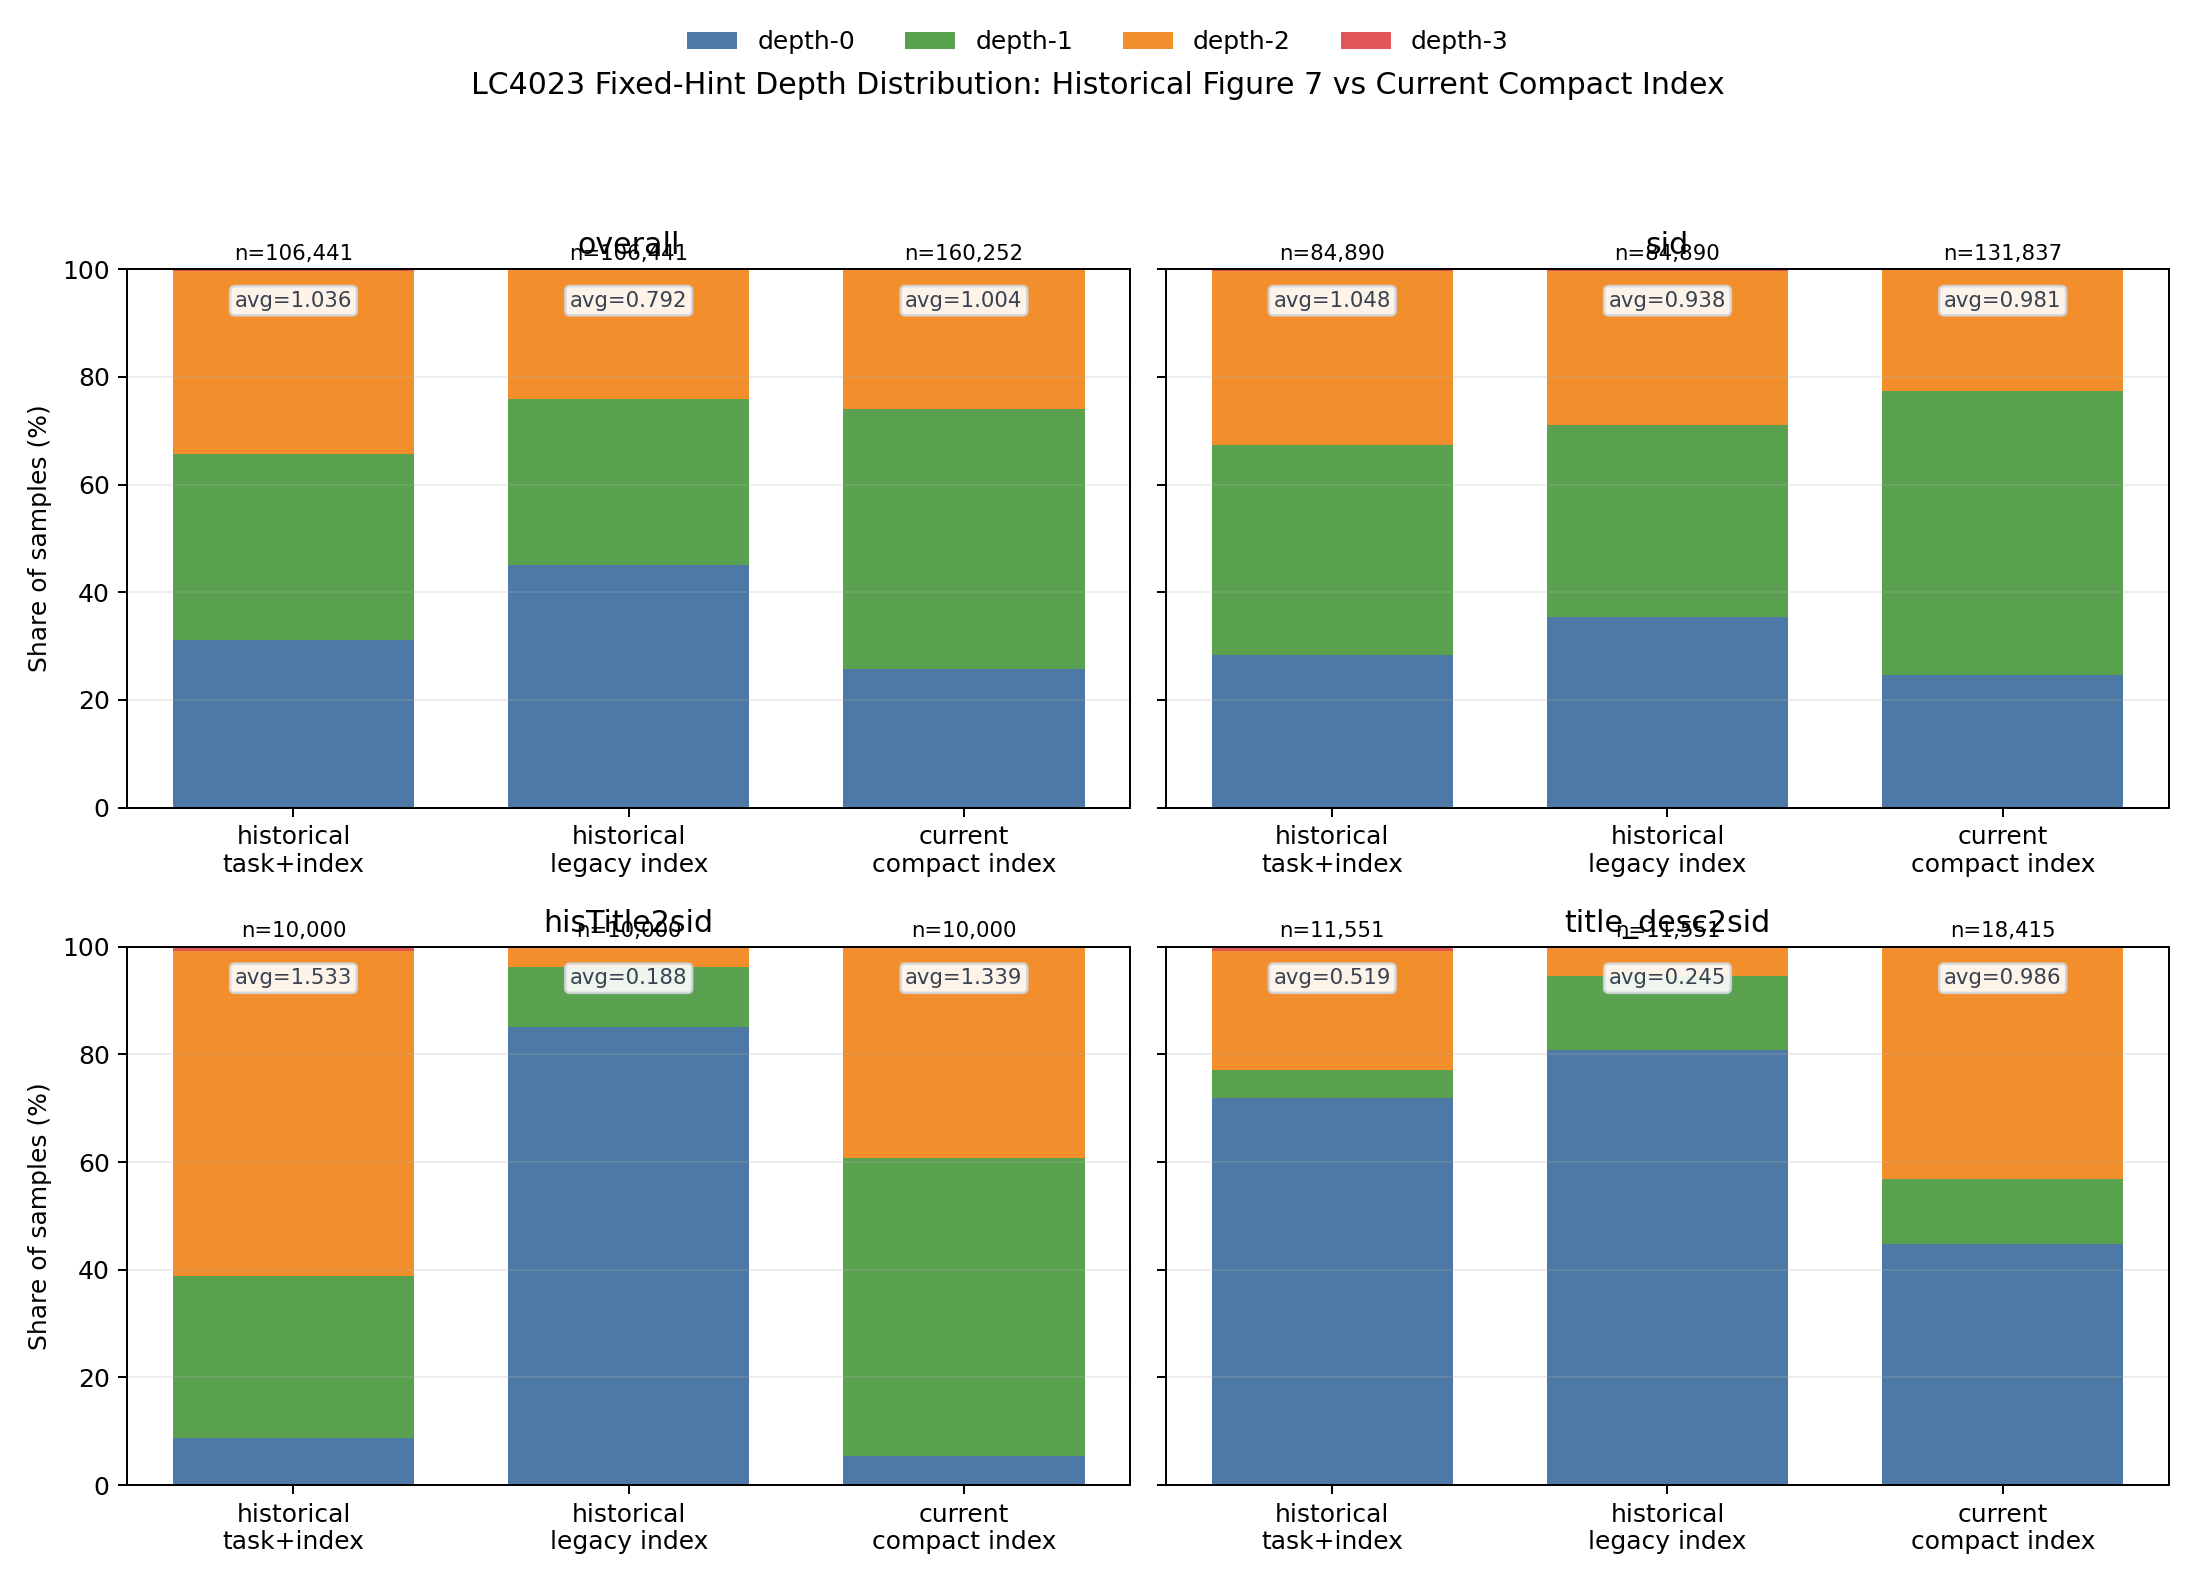
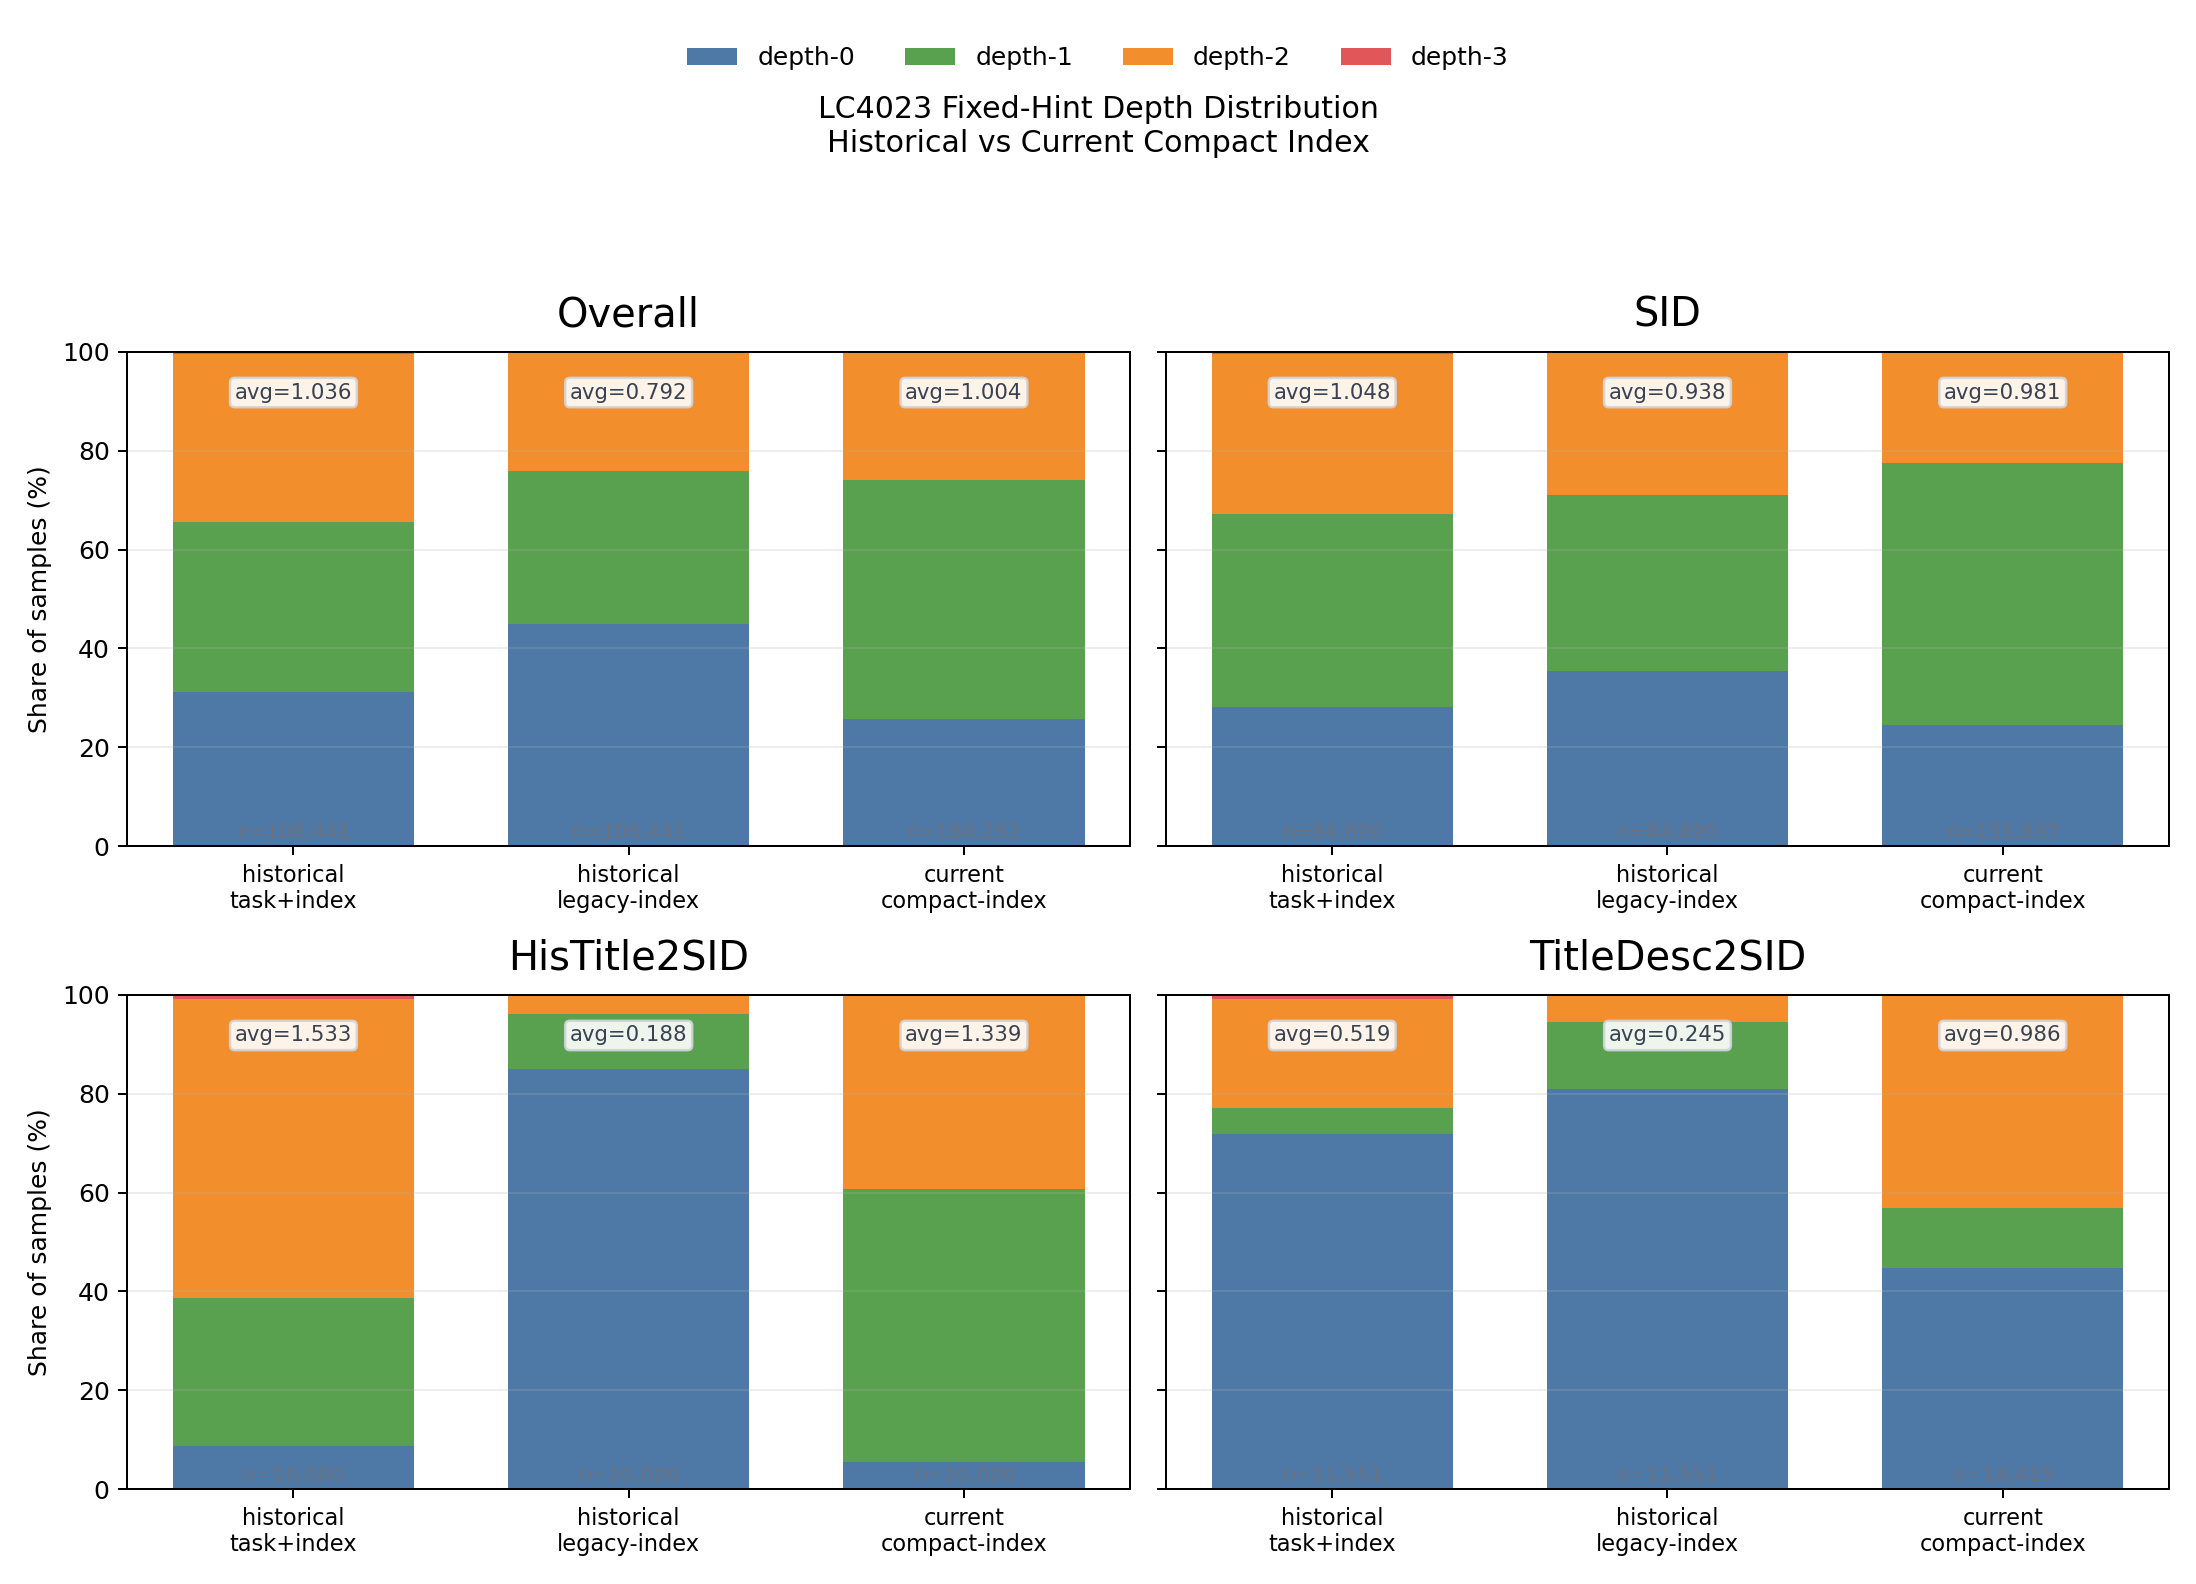
docs: tune lc4023 fixed-hint figure titles

diff --git a/docs/research/scripts/build_lc4023_fixed_hint_depth_figure.py b/docs/research/scripts/build_lc4023_fixed_hint_depth_figure.py
@@ -43,10 +43,10 @@ DEPTH_COLUMNS = [
 
 SCOPE_ORDER = ["overall", "sid", "hisTitle2sid", "title_desc2sid"]
 SCOPE_LABELS = {
-    "overall": "overall",
-    "sid": "sid",
-    "hisTitle2sid": "hisTitle2sid",
-    "title_desc2sid": "title_desc2sid",
+    "overall": "Overall",
+    "sid": "SID",
+    "hisTitle2sid": "HisTitle2SID",
+    "title_desc2sid": "TitleDesc2SID",
 }
 SCOPE_TO_TASK = {
     "sid": "task1_sid_sft",
@@ -56,8 +56,8 @@ SCOPE_TO_TASK = {
 VERSION_ORDER = ["correct_task_index", "legacy_index_only", "current_compact_index"]
 VERSION_LABELS = {
     "correct_task_index": "historical\ntask+index",
-    "legacy_index_only": "historical\nlegacy index",
-    "current_compact_index": "current\ncompact index",
+    "legacy_index_only": "historical\nlegacy-index",
+    "current_compact_index": "current\ncompact-index",
 }
 
 
@@ -149,18 +149,27 @@ def plot_distribution_grid(plot_df: pd.DataFrame, out_path: Path) -> None:
             )
             bottoms = [bottom + value for bottom, value in zip(bottoms, values, strict=True)]
 
-        ax.set_title(SCOPE_LABELS[scope])
+        ax.set_title(SCOPE_LABELS[scope], pad=10, fontsize=16)
         ax.set_xticks(bar_positions, [VERSION_LABELS[name] for name in VERSION_ORDER])
         ax.set_ylim(0, 100)
         ax.grid(axis="y", alpha=0.22)
+        ax.tick_params(axis="x", labelsize=9)
 
         for idx, version in enumerate(VERSION_ORDER):
             total = int(scope_df.loc[version, "total"])
             avg_depth = float(scope_df.loc[version, "avg_depth"])
-            ax.text(bar_positions[idx], 101.0, f"n={total:,}", ha="center", va="bottom", fontsize=8.5)
             ax.text(
                 bar_positions[idx],
-                96.0,
+                0.9,
+                f"n={total:,}",
+                ha="center",
+                va="bottom",
+                fontsize=8.2,
+                color="#6B7280",
+            )
+            ax.text(
+                bar_positions[idx],
+                93.8,
                 f"avg={avg_depth:.3f}",
                 ha="center",
                 va="top",
@@ -172,9 +181,9 @@ def plot_distribution_grid(plot_df: pd.DataFrame, out_path: Path) -> None:
     axes[0, 0].set_ylabel("Share of samples (%)")
     axes[1, 0].set_ylabel("Share of samples (%)")
     handles, labels = axes[0, 0].get_legend_handles_labels()
-    fig.legend(handles, labels, loc="upper center", bbox_to_anchor=(0.5, 0.995), ncol=4, frameon=False)
-    fig.suptitle("LC4023 Fixed-Hint Depth Distribution: Historical Figure 7 vs Current Compact Index", y=0.955)
-    fig.tight_layout(rect=(0, 0, 1, 0.91))
+    fig.legend(handles, labels, loc="upper center", bbox_to_anchor=(0.5, 0.985), ncol=4, frameon=False)
+    fig.suptitle("LC4023 Fixed-Hint Depth Distribution\nHistorical vs Current Compact Index", y=0.94)
+    fig.tight_layout(rect=(0, 0, 1, 0.89))
     out_path.parent.mkdir(parents=True, exist_ok=True)
     fig.savefig(out_path, dpi=180)
     plt.close(fig)
